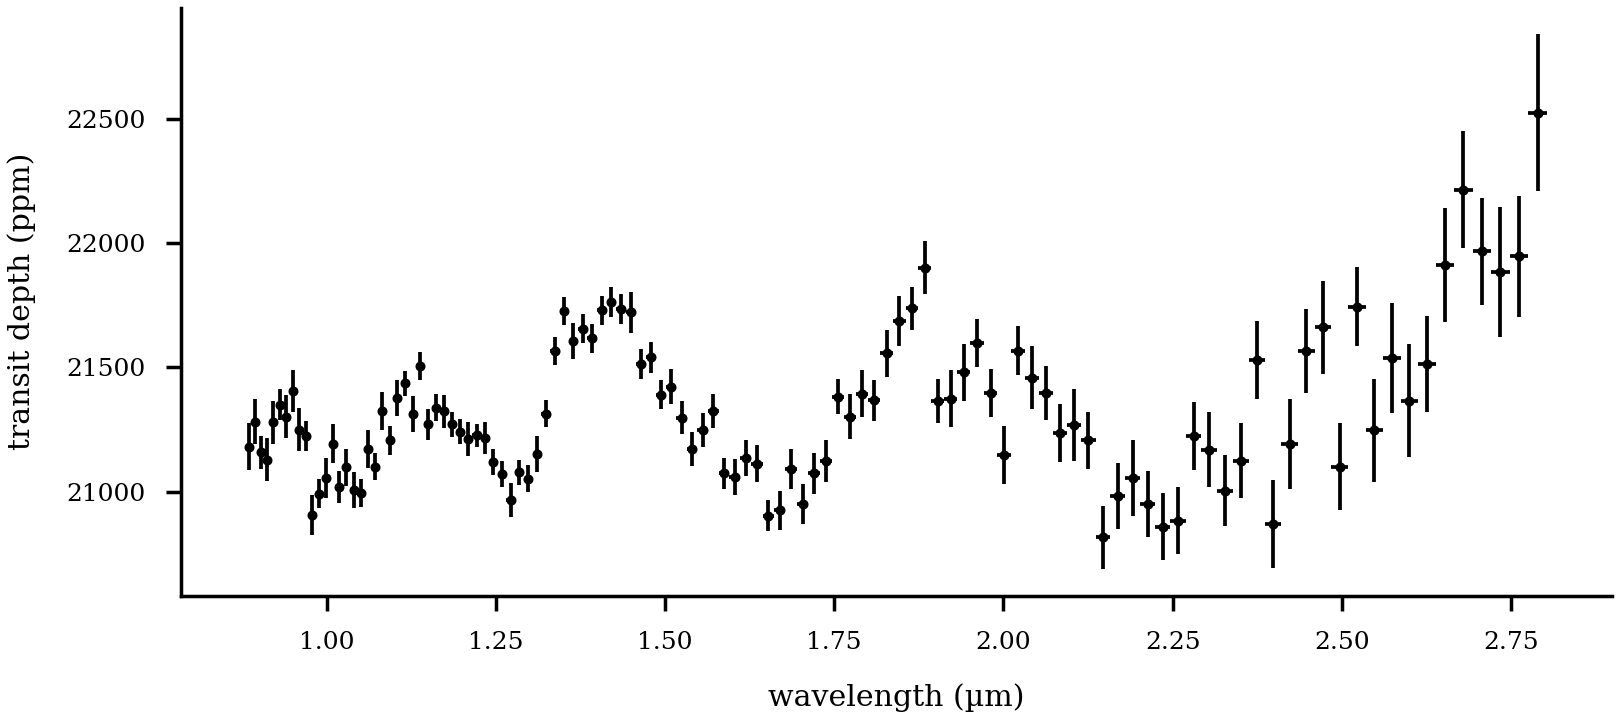
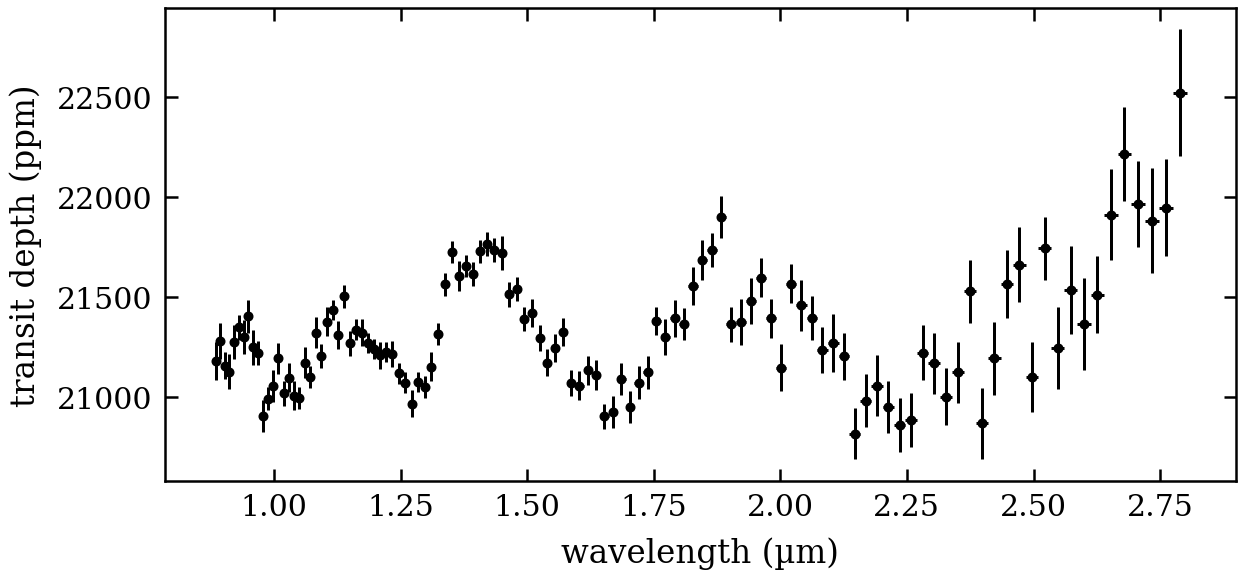
Update the documentation from new runs of every documented fit
The first-fit page shows the new transcript (5 min 7 s on 16 cores, no
divergence retry with the Stagger starting values), and the first-fit, SOSS,
timing and three-instrument figures come from the new runs. The both-orders
and phase-curve pages quote the new numbers; the timing page's numbers didn't
change. The archived phase-curve configuration used a key that koala no
longer reads, so it is now the example configuration itself.

diff --git a/docs/case_studies/three_instruments.md b/docs/case_studies/three_instruments.md
@@ -1,6 +1,6 @@
 # WASP-39 b with NIRISS, NIRSpec and MIRI
 
-WASP-39 b has been observed with every one of JWST's spectrographs, so it's a good planet for putting several instruments together.
+WASP-39 b has been observed with all four of JWST's instruments, so it's a good planet for putting several of them together.
 Here we'll take three of those observations, NIRISS/SOSS from 0.85 to 2.8 µm, NIRSpec/G395H from 2.9 to 5 µm and MIRI/LRS from 5 to 12 µm, fit one orbit to all of them at once, and then measure the spectrum from each.
 
 Each instrument needs slightly different choices, for the wavelength channels and for the trend, and that's most of what this page is about.
@@ -27,7 +27,7 @@ Here are their white-light curves, before any fitting:
 ```
 
 SOSS is the simplest, with a flat baseline either side of the transit.
-G395H has a sudden drop in flux about a quarter of an hour after mid-transit, on both detectors.
+G395H has a sudden drop in flux about 10 minutes after mid-transit, on both detectors.
 That's a known feature of this observation: one of the telescope's mirror segments shifted slightly, which changed the shape of the star's image on the detector ([Alderson et al. 2023](https://doi.org/10.1038/s41586-022-05591-3)).
 MIRI/LRS starts with a ramp as the detector settles, and drifts down slowly for the rest of the visit.
 
@@ -45,27 +45,34 @@ nrs: 1
 ```
 
 **The wavelength channels.**
-Each dataset uses a different kind of channel, because the right choice depends on the instrument and on what you want to do with the spectrum:
+Each dataset uses a different kind of channel, because the right choice depends on the instrument and on what you want to do with the spectrum.
+SOSS uses a resolving power:
 
 ```yaml
-resolution:          # SOSS, in examples/wasp39_soss_order1.yaml
+resolution:
   high: 100
----
-resolution:          # G395H, in examples/wasp39_g395h_nrs1.yaml and _nrs2.yaml
+```
+
+which gives channels of the same $\lambda/\Delta\lambda$ everywhere, the usual choice for a spectrum you want to compare across instruments.
+G395H fits every wavelength in the file as its own channel:
+
+```yaml
+resolution:
   high: native
----
-pixels:              # MIRI/LRS, in examples/wasp39_miri_lrs.yaml
+```
+
+That's worth it when you want the shape of narrow features, such as the CO₂ band at 4.3 µm, or when you plan to bin the spectrum yourself later (in a retrieval, say).
+It's also the slowest choice: here it gives 364 G395H channels, against 115 for SOSS at $R = 100$.
+MIRI/LRS uses channels of six detector columns each:
+
+```yaml
+pixels:
   high: 6
 ```
 
-- A resolving power such as `100` gives channels of the same $\lambda/\Delta\lambda$ everywhere, which is the usual choice for a spectrum you want to compare across instruments.
-- `native` fits every wavelength in the file as its own channel.
-  That's worth it when you want the shape of narrow features, such as the CO₂ band at 4.3 µm, or when you plan to bin the spectrum yourself later (in a retrieval, say).
-  It's also the slowest choice: here it gives 364 G395H channels, against 115 for SOSS at $R = 100$.
-- `pixels` makes each channel a fixed number of detector columns.
-  That suits MIRI/LRS, whose resolving power climbs from about 40 at 5 µm to about 160 at 10 µm, so one constant $R$ doesn't fit the whole band.
-- `reference` (not used here) takes the bin edges from a CSV file, given as `resolution.reference_grid`.
-  Use it when you want exactly the same channels as another spectrum, such as a published one or a PRISM observation of the same planet.
+That suits MIRI/LRS, whose resolving power climbs from about 40 at 5 µm to about 160 at 10 µm, so one constant $R$ doesn't fit the whole band.
+The last choice, `reference` (not used here), takes the bin edges from a CSV file given as `resolution.reference_grid`.
+Use it when you want exactly the same channels as another spectrum, such as a published one or a PRISM observation of the same planet.
 
 **The trend.**
 SOSS has the default straight line.
@@ -118,14 +125,42 @@ From the top of the repository:
 koala -c examples/wasp39_three_instruments.yaml
 ```
 
-This took RUNTIME on 16 cores of an Intel Xeon node, most of it for the 364 native-resolution G395H channels.
+This took about 25 minutes on 15 cores of an Intel Xeon node, ten of them for the 364 native-resolution G395H channels.
 koala reads the four datasets first, then fits their white-light curves together:
 
 ```text
-TRANSCRIPT
+Planet parameters:
+  period      fixed at 4.05528043
+  t0 visit 1  uniform(59787.505, 59787.605), start 59787.555
+  t0 visit 2  uniform(59791.56, 59791.66), start 59791.61
+  t0 visit 3  uniform(59990.269, 59990.369), start 59990.319
+  a_rs        uniform(5.0, 25.0), start 11.4
+  b           uniform(0.0, 1.0), start 0.45
+  rprs        uniform(0.01, 0.5), start 0.146
+Limb darkening: quadratic law with uniform priors on u1 + u2 and u1 - u2
+Joint white light: 4 observations sharing a_rs and b, 4 chains of 1000 draws
+sample: 100%|██████████████████████████████████████████████████| 1200/1200 [02:31<00:00,  7.90it/s]
+White-light convergence checks need more draws; extending the sampling.
+sample: 100%|██████████████████████████████████████████████████| 1000/1000 [01:24<00:00, 11.77it/s]
+  Converged: R-hat <= 1.003, bulk effective sample size >= 870, no divergences
+  a_rs             11.377 ± 0.014
+  b                0.4521 ± 0.0029
+  t0 visit 1       59787.556748 ± 0.000014 BJD_TDB - 2400000
+  t0 visit 2       59791.612056 ± 0.000014 BJD_TDB - 2400000
+  t0 visit 3       59990.320812 ± 0.000034 BJD_TDB - 2400000
+  rprs SOSS order 1 0.14583 ± 0.00011
+  rprs G395H NRS1  0.14602 ± 0.00011
+  rprs G395H NRS2  0.14710 ± 0.00013
+  rprs MIRI/LRS    0.14529 ± 0.00020
+  Residual scatter 109 ppm (SOSS order 1), 114 ppm (G395H NRS1), 173 ppm (G395H NRS2), 544 ppm (MIRI/LRS); 1 integration clipped at 5σ
 ```
 
-RESULTS
+The four white-light curves give $a/R_* = 11.377 \pm 0.014$ and $b = 0.4521 \pm 0.0029$.
+That agrees with the two SOSS orders on their own ($11.390 \pm 0.021$ and $0.4516 \pm 0.0042$, in [the two-order fit](transmission_soss.md)), with uncertainties about a third smaller, since all three instruments see the same orbit.
+Each visit has its own transit time, and each dataset its own white-light radius ratio, which differ because they average over different wavelengths: NRS2, for example, covers the CO₂ band.
+The scatter of the residuals goes from 109 ppm for SOSS to 544 ppm for MIRI/LRS, which collects far fewer photons in each of its shorter integrations.
+
+Then koala fits the channels of each dataset in turn, with the orbit and that visit's transit time held fixed, and all 520 channels pass the convergence checks.
 
 ## The spectrum
 
@@ -135,7 +170,10 @@ koala puts the four spectra on one wavelength axis in `figures/joint_spectrum.pn
 :alt: The transmission spectrum of WASP-39 b from 0.85 to 12 µm, from SOSS, G395H and MIRI/LRS
 ```
 
-SPECTRUM
+The water bands in SOSS are the same as in [your first fit](../quickstart.md).
+G395H adds the large CO₂ band at 4.3 µm and a smaller bump at 4.05 µm, which [Alderson et al. (2023)](https://doi.org/10.1038/s41586-022-05591-3) identified as SO₂.
+In MIRI/LRS the depth rises around 7.7 µm, where [Powell et al. (2024)](https://doi.org/10.1038/s41586-024-07040-9) found more SO₂, and falls beyond 10 µm, where the uncertainties also grow quickly as the light runs out.
+The native G395H channels scatter much more than the others, because each one is only eight detector columns wide; `figures/joint_spectrum_binned.png` averages them into wider bins for display.
 
 The axis is linear up to 5 µm and logarithmic beyond (the dotted line), so that the MIRI/LRS channels, which cover more than half of the wavelength range, don't squeeze the rest of the spectrum.
 The numbers are in `joint_spectrum.csv`, and each dataset's own directory has its spectrum, light curves and figures as usual.
@@ -148,4 +186,4 @@ Before reading anything into one, it's worth checking:
 
 - each dataset's `figures/whitelight.png`, to see that the trend has caught the step in G395H and the ramp in MIRI/LRS,
 - each dataset's `figures/<grid>_residual_map.png`, where anything the trend missed shows up as a stripe across all wavelengths,
-- that the two G395H detectors agree where they meet near 3.8 µm.
+- that the two G395H detectors agree on either side of the gap between them, near 3.8 µm.

diff --git a/docs/quickstart.md b/docs/quickstart.md
@@ -115,7 +115,7 @@ import koala
 koala.fit("examples/niriss_soss_order1.yaml")
 ```
 
-This fit took just under 6 minutes on 16 cores of a cluster node (Intel Xeon Gold 6248R).
+This fit took about 5 minutes on 16 cores of a cluster node (Intel Xeon Gold 6248R).
 Here's what koala printed along the way:
 
 ```text
@@ -126,41 +126,41 @@ Reading examples/data/WASP-39_soss_binned8.fits
   Binned to 115 channels at R = 100
 Planet parameters:
   period    fixed at 4.05528043
-  t0        uniform(59787.005, 59787.105), start 59787.055
+  t0        uniform(59787.505, 59787.605), start 59787.555
   duration  log-uniform(0.01, 1.0), start 0.117
   b         uniform(0.0, 1.5), start 0.45
   rprs      uniform(0.01, 0.5), start 0.146
 Limb darkening: quadratic law with uniform priors on u1 + u2 and u1 - u2
+Stagger has no models above solar metallicity, so limb darkening uses its [Fe/H] = 0 models.
 Downloaded stellar limb-darkening data.
 White light: transit with a linear trend, 4 chains of 1000 draws
-sample: 100%|██████████████████████████████████████████████████| 1200/1200 [00:35<00:00, 33.33it/s]
-White-light sampling had divergences; retrying with smaller steps.
-sample: 100%|██████████████████████████████████████████████████| 1200/1200 [01:00<00:00, 19.94it/s]
-  Converged: R-hat <= 1.001, bulk effective sample size >= 1278, no divergences
+sample: 100%|██████████████████████████████████████████████████| 1200/1200 [00:37<00:00, 32.05it/s]
+  Converged: R-hat <= 1.003, bulk effective sample size >= 1948, no divergences
   rprs             0.14591 ± 0.00018
-  b                0.4511 ± 0.0047
-  t0               59787.056748 ± 0.000014 BMJD_TDB
-  duration         0.119602 ± 0.000088 d
+  b                0.4510 ± 0.0048
+  t0               59787.556749 ± 0.000014 BJD_TDB - 2400000
+  duration         0.119600 ± 0.000088 d
   Residual scatter 109 ppm; 1 integration clipped at 5σ
-Limb darkening from stellar models: 100%|██████████████████████| 115/115 [00:00<00:00, 1533.79it/s]
+Limb darkening from stellar models: 100%|███████████████████████| 115/115 [00:00<00:00, 679.57it/s]
 Spectroscopy at R = 100: 115 channels, orbit fixed to the white-light posterior
-Channels: 100%|██████████████████████████████████████████████████| 115/115 [03:04<00:00,  1.60s/it]
+Channels: 100%|██████████████████████████████████████████████████| 115/115 [03:03<00:00,  1.60s/it]
 All 115 channels passed the convergence checks!
 Spectrum: results/WASP-39_SOSS_ORDER1/WASP-39_NIRISS_SOSS_order1_R100_spectrum.csv
 Figures: results/WASP-39_SOSS_ORDER1/figures/
 Full log: results/WASP-39_SOSS_ORDER1/koala.log
-Done in 5 min 51 s.
+Done in 5 min 7 s.
 ```
 
 Let's go through that.
 First koala reads the file and tells us what it found, which is a good moment to check that the instrument, the number of integrations and the wavelength range are what you expect.
-It then prints the priors it's going to use.
-The first time you fit a star, it also downloads the stellar models it needs for the limb darkening.
+It then prints the priors it's going to use, and which stellar models it will use for the limb darkening.
+That's the 3D Stagger grid, and since WASP-39 is a little more metal-rich than the Sun, where Stagger stops, koala uses its solar-metallicity models.
+The first time you fit a star, it also downloads the stellar models it needs.
 
 Next it fits the white-light curve.
 Adding up all the wavelengths gives the most precise light curve we have, so this is where koala measures the orbit: the transit time, duration and impact parameter, along with the white-light radius ratio, limb darkening, trend and jitter.
-Here the first set of chains had divergent transitions, which happens when the sampler's steps are too big for the shape of the posterior, so koala ran them again with smaller steps.
 Once the four chains agreed, it printed the results and how many outlying integrations it clipped.
+(If the chains have divergent transitions, which happens when the sampler's steps are too big for the shape of the posterior, koala says so and runs them again with smaller steps.)
 
 Then it looks up the limb darkening at each wavelength and fits each channel with the orbit held fixed at the white-light result.
 Each channel gets its own radius ratio, limb darkening, trend and jitter.
@@ -208,14 +208,14 @@ print(params[["t0", "t0_err", "duration", "duration_err", "b", "b_err", "rors", 
 ```
 
 ```text
-t0              59787.056748
+t0              59787.556749
 t0_err              0.000014
-duration            0.119602
+duration            0.119600
 duration_err        0.000088
-b                   0.451094
-b_err               0.004747
-rors                0.145913
-rors_err            0.000178
+b                   0.451028
+b_err               0.004754
+rors                0.145912
+rors_err            0.000177
 ```
 
 The transit time is measured to about a second and the radius ratio to about 0.1%, which is why it pays to fit the orbit once with all the light and then hold it fixed.

diff --git a/docs/case_studies/transmission_soss.md b/docs/case_studies/transmission_soss.md
@@ -49,8 +49,8 @@ This took about 7 minutes on 16 cores of an Intel Xeon node.
 koala fits the two white-light curves together first, then the channels of order 1, then those of order 2.
 The joint orbit is in `results/WASP-39_joint/joint_params.csv`, and each order gets its own directory (`joint_soss_order1/` and `joint_soss_order2/`) with the usual [output files](../guide/outputs.md).
 
-The joint fit gives $a/R_* = 11.390 \pm 0.021$, $b = 0.4516 \pm 0.0043$ and a transit time of $59787.056747 \pm 0.000012$ BMJD_TDB.
-The white-light radius ratios are $0.14591 \pm 0.00016$ in order 1 and $0.14527 \pm 0.00020$ in order 2, which differ because the two orders cover different wavelengths.
+The joint fit gives $a/R_* = 11.390 \pm 0.021$, $b = 0.4516 \pm 0.0042$ and a transit time of $59787.556747 \pm 0.000012$ (BJD_TDB − 2400000).
+The white-light radius ratios are $0.14591 \pm 0.00016$ in order 1 and $0.14527 \pm 0.00019$ in order 2, which differ because the two orders cover different wavelengths.
 
 ## The spectrum
 
@@ -62,7 +62,7 @@ import matplotlib.pyplot as plt
 import pandas as pd
 
 out = Path("results/WASP-39_joint")
-fig, ax = plt.subplots(figsize=(9, 4))
+fig, ax = plt.subplots(figsize=(6.9, 3.2))
 for order in (1, 2):
     spec = pd.read_csv(next((out / f"joint_soss_order{order}").glob("*_R100_spectrum.csv")))
     ax.errorbar(spec["wavelength"], spec["depth_ppm00"],

diff --git a/docs/case_studies/phase_curve.md b/docs/case_studies/phase_curve.md
@@ -63,8 +63,8 @@ emission = pd.read_csv(next(out.glob("*_Rnative_emission.csv")))
 print(emission[["wavelength", "eclipse_depth_ppm", "nightside_flux_ppm", "phase_offset_deg"]])
 ```
 
-At 4.03 µm, the eclipse depth is $985^{+35}_{-36}$ ppm (we put in 1031 ppm), the nightside $256 \pm 34$ ppm (300 ppm), and the brightest point $16.8 \pm 1.9$° before eclipse (18°).
-Across all 14 channels, every quantity is within 0.4σ of the truth on average.
+At 4.03 µm, the eclipse depth is $985^{+36}_{-35}$ ppm (we put in 1031 ppm), the nightside $258^{+32}_{-36}$ ppm (300 ppm), and the brightest point $16.8 \pm 1.9$° before eclipse (18°).
+Across all 14 channels, every quantity is within 0.5σ of the truth on average, and the channels scatter around it by about as much as their uncertainties say they should.
 Each column has `_err_low` and `_err_high` errors alongside it.
 
 If your observation covers only an eclipse, it can't usually pin down both $C_1$ and $D_1$, and the [uniform eclipse model](rocky_eclipse.md) is a better choice.

diff --git a/docs/guide/configuration.md b/docs/guide/configuration.md
@@ -64,7 +64,7 @@ stellar:
 
 These are the star's effective temperature (K), surface gravity ($\log_{10}$ cgs) and metallicity (dex).
 koala uses [ExoTiC-LD](https://exotic-ld.readthedocs.io) to work out the limb darkening at each wavelength from a grid of stellar models.
-By default it uses the 3D Stagger models, and the MPS-ATLAS models (`mps1`) for stars outside the Stagger grid, such as M dwarfs and stars hotter than 7000 K.
+By default it uses the 3D Stagger models, which cover most main-sequence stars from about 4500 to 6500 K, and the MPS-ATLAS models (`mps1`) for stars outside them, such as M dwarfs and hotter F stars.
 Stagger only goes up to solar metallicity, so for a metal-rich star koala uses its [Fe/H] = 0 models and says so.
 You can pick a grid yourself with `ld_model`: `stagger`, `mps1`, `mps2`, `kurucz` or `phoenix`.
 If you want the limb-darkening priors to follow the uncertainty on the stellar parameters, add `teff_sigma`, `logg_sigma` and `feh_sigma` as well (see [limb darkening](limb_darkening.md)).
